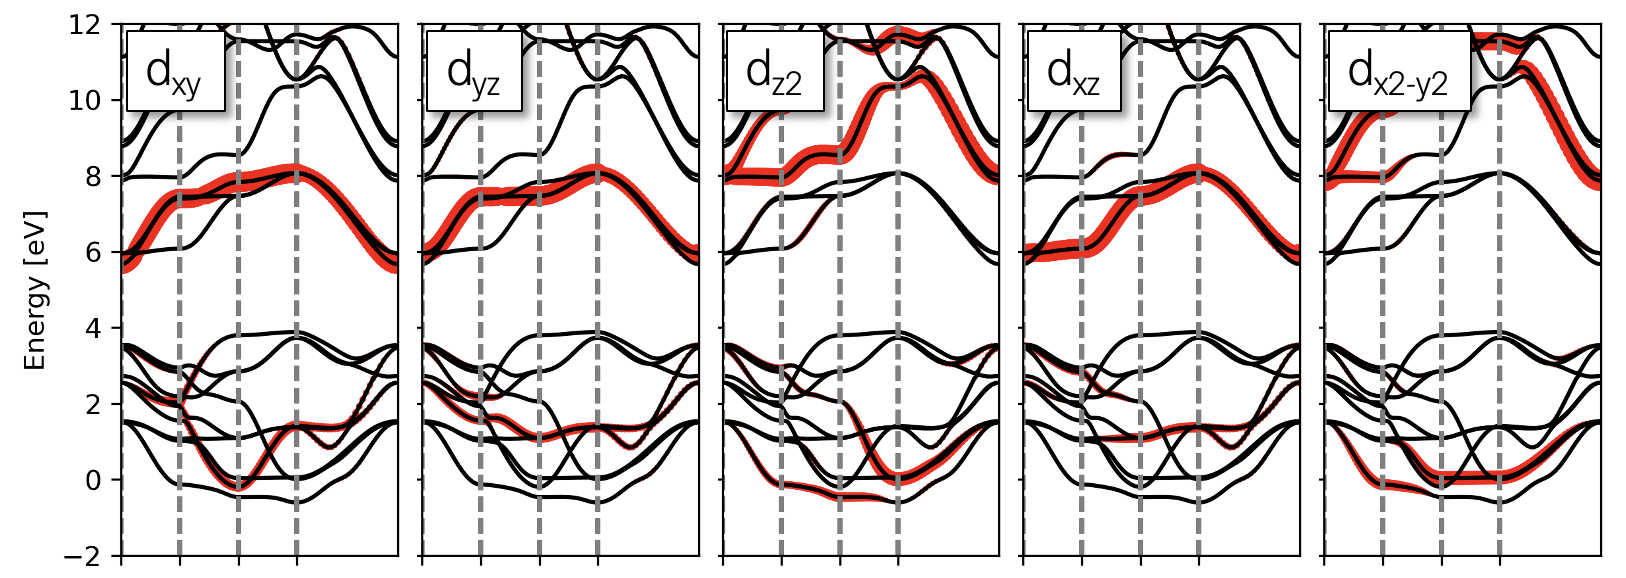
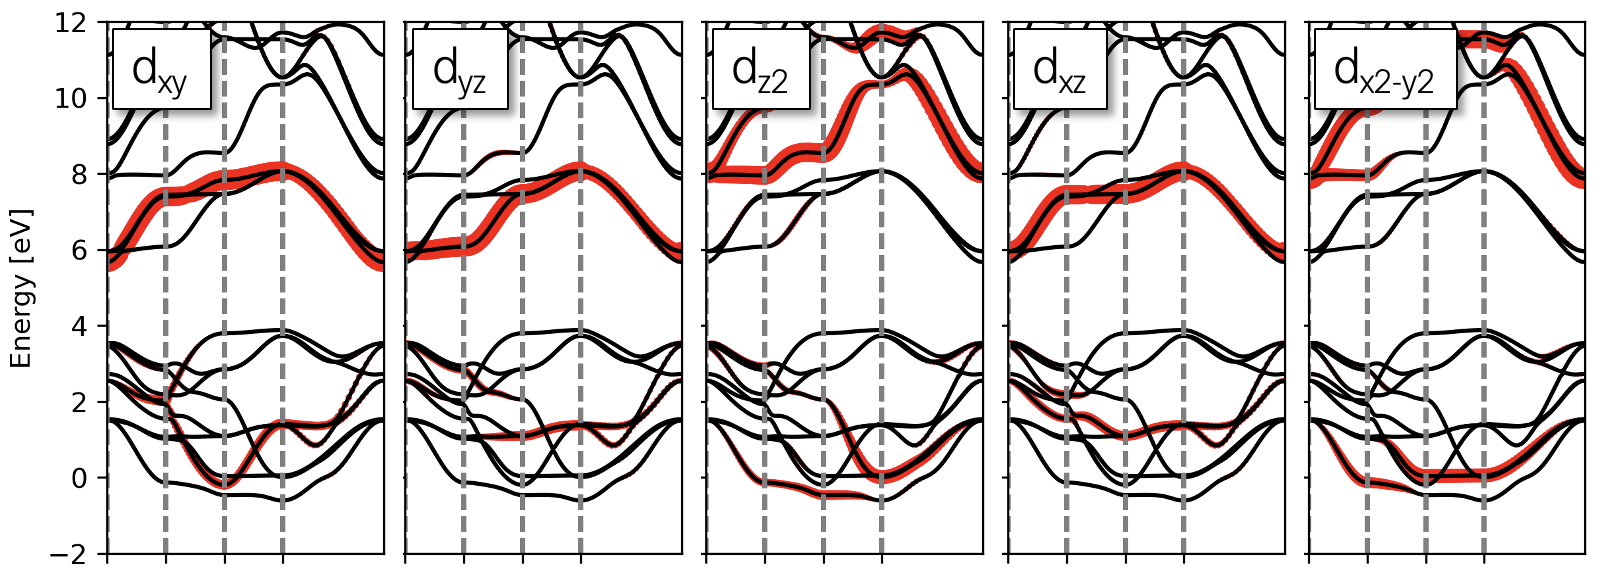
update automatic_rotation.

Changed region(s): [[0.0, 0.0, 0.9975, 0.9965]]

diff --git a/example/automatic_rotation/find_angle.py b/example/automatic_rotation/find_angle.py
@@ -113,7 +113,7 @@ def get_max(proj_data, atom_idx=0, orbital='d', alpha=0, beta=0, gamma=0, half_r
     data_tmp=[]
 
     for z_angle in np.linspace(z1_1,z1_2,2*int(half_range/dtheta)+1):
-        for y_angle in np.linspace(z2_1,z2_2,2*int(half_range/dtheta)+1):
+        for y_angle in np.linspace(z2_1,z2_2,2*int(half_range_y/dtheta)+1):
             for x_angle in np.linspace(z3_1,z3_2,2*int(half_range/dtheta)+1):
                 #---------------------------------------
                 # generate transformation matrix

diff --git a/example/automatic_rotation/README.md b/example/automatic_rotation/README.md
@@ -47,21 +47,22 @@ With the _diag_ structure, we have
 
 Now, using `find_angles.py` file (`python find_angles.py 0 d`), we get the following Eular angles:
 ```
-   Eular_alpha:  135.50 degrees
-   Eular_beta :  -54.75 degrees
-   Eular_gamma:  -180.50 degrees
+   Eular_alpha:  -135.00 degrees
+   Eular_beta :   0.00 degrees
+   Eular_gamma:  -54.75 degrees
 ```
 
 And with these angles, we can re-calculate the projected band structures using
-`rot_pband_plot.py` (`python rot_pband_plot.py 0 4 135.5 -54.75 -180.50`). And we get:
+`rot_pband_plot.py` (`python rot_pband_plot.py 0 4 -135 0.00 -54.75`). And we get:
 
 <p align="center">
 <img src="https://github.com/Chengcheng-Xiao/RotSph/blob/master/example/automatic_rotation/images/band_rotsph.png?raw=true" width="50%" height="50%">
 </p>
 
-Comparing our rotated projected band structrue to the one we got for the _orth_
-structure, we realize that $d_{xz}$ and $d_{yz}$ swapped places. But this is fine as
-they are symmetry-related.
+We see that the canonical orbtial features are fully recovered.
+<!-- Comparing our rotated projected band structrue to the one we got for the _orth_ -->
+<!-- structure, we realize that $d_{xz}$ and $d_{yz}$ swapped places. But this is fine as -->
+<!-- they are symmetry-related. -->
 
 #### Steps to reproduce
 0. go to `diag` dir.
